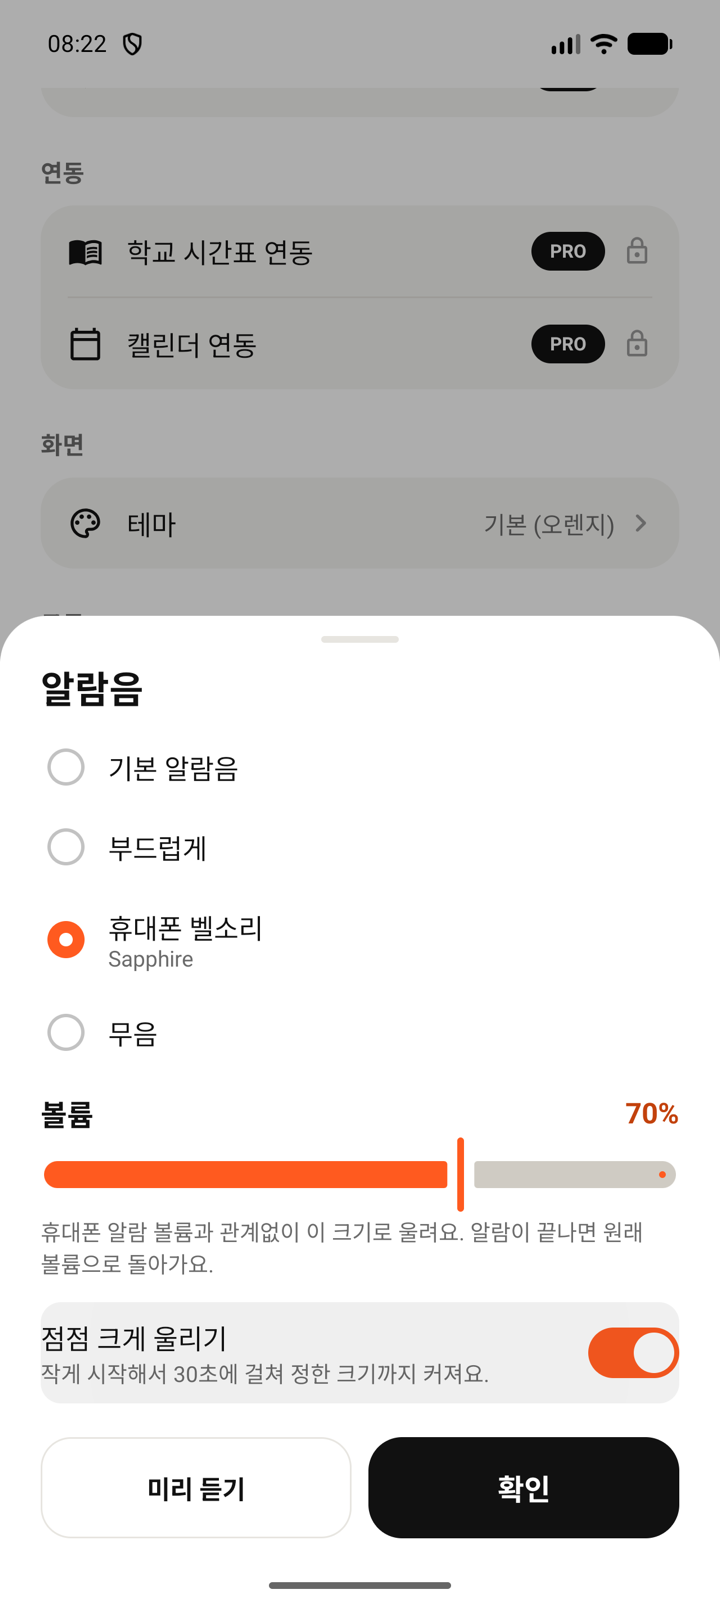
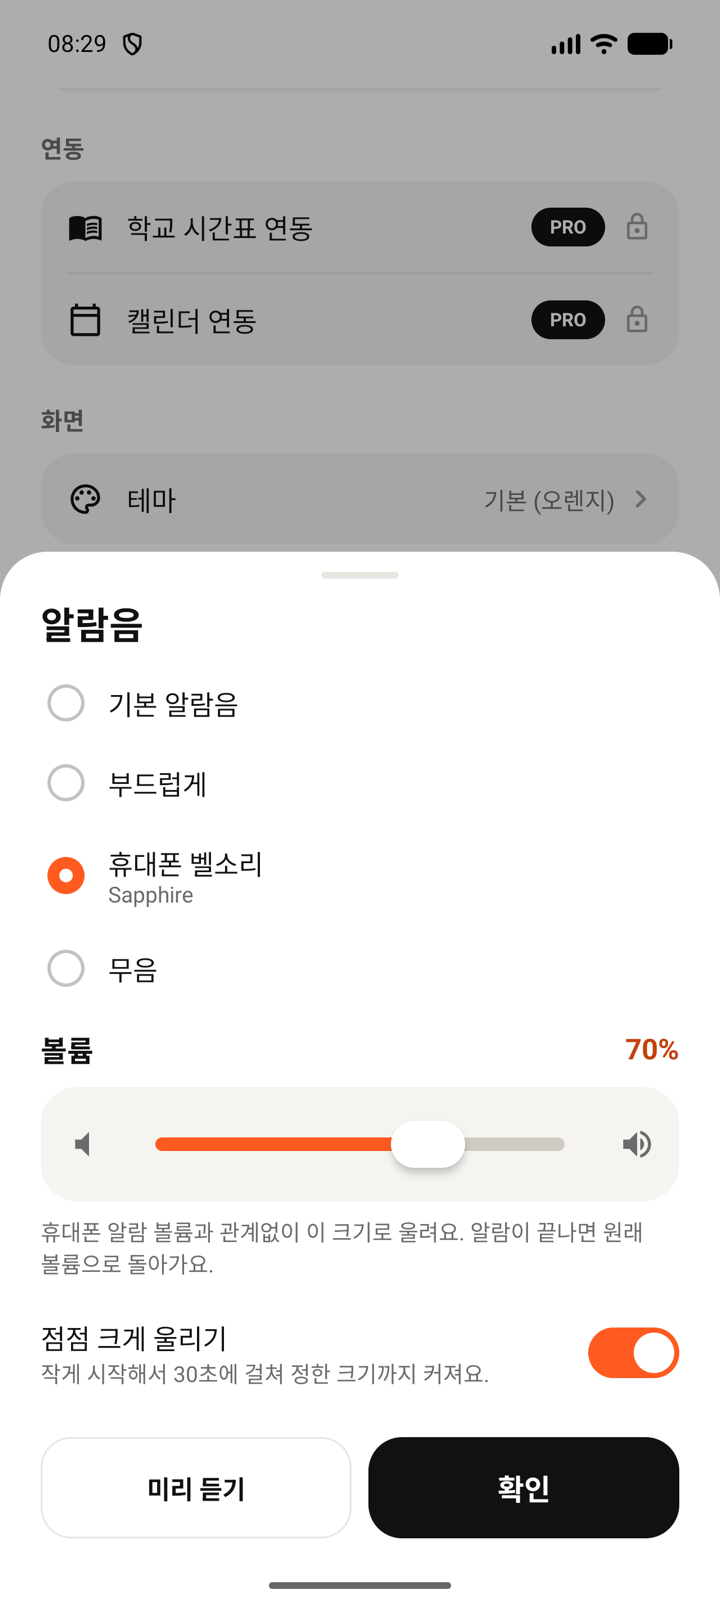
알람 볼륨을 아이폰식 막대로 바꾸고 테마 강조색 적용, README 에 테마별 화면 추가
- VolumeSlider: 둥근 카드 안에 작은/큰 스피커 아이콘, 얇은 막대, 흰 알약 손잡이
- 채워진 막대 색은 테마 강조색(기본 오렌지, 새벽 남색, 나이트 연두)
- README: 테마별 홈·알람음 화면 표

diff --git a/app/src/main/java/com/example/routealarm/core/designsystem/component/VolumeSlider.kt b/app/src/main/java/com/example/routealarm/core/designsystem/component/VolumeSlider.kt
@@ -1,0 +1,89 @@
+package com.example.routealarm.core.designsystem.component
+
+import androidx.compose.foundation.Canvas
+import androidx.compose.foundation.background
+import androidx.compose.foundation.layout.Box
+import androidx.compose.foundation.layout.Row
+import androidx.compose.foundation.layout.fillMaxWidth
+import androidx.compose.foundation.layout.height
+import androidx.compose.foundation.layout.padding
+import androidx.compose.foundation.layout.size
+import androidx.compose.foundation.shape.CircleShape
+import androidx.compose.material.icons.Icons
+import androidx.compose.material.icons.automirrored.filled.VolumeMute
+import androidx.compose.material.icons.automirrored.filled.VolumeUp
+import androidx.compose.material3.ExperimentalMaterial3Api
+import androidx.compose.material3.Icon
+import androidx.compose.material3.Slider
+import androidx.compose.runtime.Composable
+import androidx.compose.ui.Alignment
+import androidx.compose.ui.Modifier
+import androidx.compose.ui.draw.alpha
+import androidx.compose.ui.draw.clip
+import androidx.compose.ui.draw.shadow
+import androidx.compose.ui.geometry.CornerRadius
+import androidx.compose.ui.geometry.Offset
+import androidx.compose.ui.geometry.Size
+import androidx.compose.ui.graphics.Color
+import androidx.compose.ui.unit.dp
+import com.example.routealarm.core.designsystem.theme.Radius
+import com.example.routealarm.core.designsystem.theme.RouteAlarmTheme
+
+/**
+ * 아이폰 설정의 소리 크기 막대처럼 생긴 볼륨 슬라이더.
+ * 둥근 카드 안에 작은/큰 스피커 아이콘, 얇은 막대, 흰 알약 손잡이를 둔다.
+ * 채워진 막대는 테마 강조색을 따라가서 테마를 바꾸면 색도 바뀐다.
+ */
+@OptIn(ExperimentalMaterial3Api::class)
+@Composable
+fun VolumeSlider(
+    value: Int,
+    range: IntRange,
+    onChange: (Int) -> Unit,
+    modifier: Modifier = Modifier,
+    step: Int = 5,
+    enabled: Boolean = true,
+    onChangeFinished: () -> Unit = {},
+) {
+    val colors = RouteAlarmTheme.colors
+    val active = colors.accent
+    val inactive = colors.dotted
+    Row(
+        modifier
+            .fillMaxWidth()
+            .clip(Radius.card)
+            .background(colors.surface)
+            .padding(horizontal = 14.dp)
+            .alpha(if (enabled) 1f else 0.4f),
+        verticalAlignment = Alignment.CenterVertically,
+    ) {
+        Icon(Icons.AutoMirrored.Filled.VolumeMute, contentDescription = null, tint = colors.textSecondary, modifier = Modifier.size(22.dp))
+        Slider(
+            value = value.toFloat(),
+            onValueChange = { onChange(((it / step).toInt() * step).coerceIn(range.first, range.last)) },
+            onValueChangeFinished = onChangeFinished,
+            valueRange = range.first.toFloat()..range.last.toFloat(),
+            enabled = enabled,
+            thumb = {
+                Box(
+                    Modifier
+                        .size(width = 44.dp, height = 28.dp)
+                        .shadow(3.dp, CircleShape)
+                        .background(Color.White, CircleShape),
+                )
+            },
+            track = { state ->
+                val fraction = ((state.value - state.valueRange.start) / (state.valueRange.endInclusive - state.valueRange.start)).coerceIn(0f, 1f)
+                Canvas(Modifier.fillMaxWidth().height(TRACK_HEIGHT)) {
+                    val radius = CornerRadius(size.height / 2, size.height / 2)
+                    drawRoundRect(inactive, size = size, cornerRadius = radius)
+                    drawRoundRect(active, topLeft = Offset.Zero, size = Size(size.width * fraction, size.height), cornerRadius = radius)
+                }
+            },
+            modifier = Modifier.weight(1f).padding(horizontal = 10.dp, vertical = 10.dp),
+        )
+        Icon(Icons.AutoMirrored.Filled.VolumeUp, contentDescription = null, tint = colors.textSecondary, modifier = Modifier.size(22.dp))
+    }
+}
+
+private val TRACK_HEIGHT = 8.dp

diff --git a/app/src/main/java/com/example/routealarm/presentation/settings/AlarmSoundSheet.kt b/app/src/main/java/com/example/routealarm/presentation/settings/AlarmSoundSheet.kt
@@ -18,8 +18,6 @@ import androidx.compose.foundation.layout.width
 import androidx.compose.foundation.selection.selectable
 import androidx.compose.foundation.selection.selectableGroup
 import androidx.compose.material3.MaterialTheme
-import androidx.compose.material3.Slider
-import androidx.compose.material3.SliderDefaults
 import androidx.compose.material3.Text
 import androidx.compose.runtime.Composable
 import androidx.compose.runtime.DisposableEffect
@@ -32,7 +30,6 @@ import androidx.compose.runtime.setValue
 import androidx.compose.ui.Alignment
 import androidx.compose.ui.Modifier
 import androidx.compose.ui.draw.clip
-import androidx.compose.ui.graphics.Color
 import androidx.compose.ui.platform.LocalContext
 import androidx.compose.ui.platform.testTag
 import androidx.compose.ui.res.stringResource
@@ -49,6 +46,7 @@ import com.example.routealarm.core.designsystem.component.Paragraph
 import com.example.routealarm.core.designsystem.component.PrimaryButton
 import com.example.routealarm.core.designsystem.component.RadioDot
 import com.example.routealarm.core.designsystem.component.SecondaryButton
+import com.example.routealarm.core.designsystem.component.VolumeSlider
 import com.example.routealarm.core.designsystem.theme.Radius
 import com.example.routealarm.core.designsystem.theme.RouteAlarmTheme
 import com.example.routealarm.core.designsystem.theme.Spacing
@@ -121,25 +119,20 @@ internal fun AlarmSoundSheet(
                 Text(stringResource(R.string.settings_volume), style = MaterialTheme.typography.titleMedium, color = colors.textPrimary, modifier = Modifier.weight(1f))
                 Text(stringResource(R.string.settings_volume_format, volume), style = MaterialTheme.typography.titleMedium, color = colors.accentText)
             }
-            Slider(
-                value = volume.toFloat(),
-                onValueChange = {
-                    volume = ((it / VOLUME_STEP).toInt() * VOLUME_STEP).coerceIn(UserPreferences.ALARM_VOLUME_RANGE)
-                    previewPlayer.updateVolume(volume)
+            Spacer(Modifier.height(10.dp))
+            VolumeSlider(
+                value = volume,
+                range = UserPreferences.ALARM_VOLUME_RANGE,
+                onChange = {
+                    volume = it
+                    previewPlayer.updateVolume(it)
                 },
-                onValueChangeFinished = { onVolume(volume) },
-                valueRange = UserPreferences.ALARM_VOLUME_RANGE.first.toFloat()..UserPreferences.ALARM_VOLUME_RANGE.last.toFloat(),
-                steps = (UserPreferences.ALARM_VOLUME_RANGE.last - UserPreferences.ALARM_VOLUME_RANGE.first) / VOLUME_STEP - 1,
+                onChangeFinished = { onVolume(volume) },
+                step = VOLUME_STEP,
                 enabled = !silent,
-                colors = SliderDefaults.colors(
-                    thumbColor = colors.accent,
-                    activeTrackColor = colors.accent,
-                    inactiveTrackColor = colors.dotted,
-                    activeTickColor = Color.Transparent,
-                    inactiveTickColor = Color.Transparent,
-                ),
                 modifier = Modifier.testTag("alarm_volume_slider"),
             )
+            Spacer(Modifier.height(8.dp))
             Paragraph(stringResource(R.string.settings_volume_body), style = MaterialTheme.typography.bodySmall)
 
             Spacer(Modifier.height(14.dp))

diff --git a/README.md b/README.md
@@ -59,7 +59,7 @@ Kotlin · Jetpack Compose · Clean Architecture(MVVM) · Hilt · Room · DataSto
 | 교통 상황 재확인 | PRO: 기상 24h / 3h / 1h / 20분 전에 WorkManager 로 재확인. 무료: 기상 30분 전 1회 |
 | 안전한 자동 조정 | 5분 미만 변화는 무시, 30분 초과 변화는 사용자 확인. PRO 는 자동 조정, 무료 플랜과 자동 조정 OFF 는 변경 추천만 |
 | 기상 알람 + 출발 알림 | 기상 알람(전체 화면, 알람음, 진동, 5·10분 스누즈)과 "10분 뒤 출발" / "지금 출발" 알림 분리 |
-| 알람음·볼륨 | 기본 알람음·부드럽게·휴대폰 벨소리 직접 고르기·무음, 볼륨 10~100%(휴대폰 알람 볼륨과 관계없이 이 크기로 울리고 끝나면 원래 볼륨으로 복원), 30초에 걸쳐 점점 크게 울리기, 미리 듣기 |
+| 알람음·볼륨 | 기본 알람음·부드럽게·휴대폰 벨소리 직접 고르기·무음, 아이폰 설정 같은 볼륨 막대 10~100%(테마 강조색, 휴대폰 알람 볼륨과 관계없이 이 크기로 울리고 끝나면 원래 볼륨으로 복원), 30초에 걸쳐 점점 크게 울리기, 미리 듣기 |
 | Offline First | 네트워크 실패 시 Room 캐시 → 마지막 계산값으로 알람 유지, 화면에 안내 띠 표시 |
 | 일정 만들기 5단계 | 출발지 → 도착지 → 도착 시각·반복 → 준비 시간 → 여유 시간, 저장 전에 계산 미리보기 |
 | 아이폰식 휠 입력 | 도착 시각(오전/오후 · 시 · 분)과 준비 시간(시간 · 분)을 휠을 돌려 고른다. 시 휠이 11과 12 사이를 지나면 오전/오후가 따라 바뀐다 |
@@ -137,9 +137,6 @@ Kotlin · Jetpack Compose · Clean Architecture(MVVM) · Hilt · Room · DataSto
     <td align="center" valign="top"><img src="docs/screenshots/settings.png" width="200" alt="설정 (연동 메뉴)"><br><sub>설정 (연동 메뉴)</sub></td>
     <td align="center" valign="top"><img src="docs/screenshots/theme.png" width="200" alt="테마 선택"><br><sub>테마 선택</sub></td>
   </tr>
-  <tr>
-    <td align="center" valign="top"><img src="docs/screenshots/alarm-sound.png" width="200" alt="알람음·볼륨·점점 크게"><br><sub>알람음·볼륨·점점 크게</sub></td>
-  </tr>
 </table>
 
 ### 학교 시간표 · 캘린더 연동 (PRO)
@@ -170,6 +167,28 @@ Kotlin · Jetpack Compose · Clean Architecture(MVVM) · Hilt · Room · DataSto
     <td align="center" valign="top"><img src="docs/screenshots/auto-adjust.png" width="200" alt="교통 지연 → 자동 조정 (PRO)"><br><sub>교통 지연 → 자동 조정 (PRO)</sub></td>
     <td align="center" valign="top"><img src="docs/screenshots/suggestion.png" width="200" alt="교통 지연 → 변경 추천 (무료)"><br><sub>교통 지연 → 변경 추천 (무료)</sub></td>
     <td align="center" valign="top"><img src="docs/screenshots/offline.png" width="200" alt="네트워크 실패 → 마지막 계산 기준"><br><sub>네트워크 실패 → 마지막 계산 기준</sub></td>
+  </tr>
+</table>
+
+### 테마별 화면
+
+설정 > 테마에서 기본(오렌지)·새벽·나이트를 고를 수 있다. 강조색이 테마를 따라 바뀌어, 알람음 볼륨 막대도 오렌지 · 남색 · 연두색으로 칠해진다. 지하철 노선색은 테마와 관계없이 공식 색으로 고정된다.
+
+<table>
+  <tr>
+    <th align="center">기본 (오렌지)</th>
+    <th align="center">새벽</th>
+    <th align="center">나이트</th>
+  </tr>
+  <tr>
+    <td align="center" valign="top"><img src="docs/screenshots/theme-default-home.png" width="200" alt="기본 (오렌지) — 홈"><br><sub>기본 (오렌지) — 홈</sub></td>
+    <td align="center" valign="top"><img src="docs/screenshots/theme-dawn-home.png" width="200" alt="새벽 — 홈"><br><sub>새벽 — 홈</sub></td>
+    <td align="center" valign="top"><img src="docs/screenshots/theme-night-home.png" width="200" alt="나이트 — 홈"><br><sub>나이트 — 홈</sub></td>
+  </tr>
+  <tr>
+    <td align="center" valign="top"><img src="docs/screenshots/alarm-sound.png" width="200" alt="기본 (오렌지) — 알람음·볼륨"><br><sub>기본 (오렌지) — 알람음·볼륨</sub></td>
+    <td align="center" valign="top"><img src="docs/screenshots/theme-dawn-sound.png" width="200" alt="새벽 — 알람음·볼륨"><br><sub>새벽 — 알람음·볼륨</sub></td>
+    <td align="center" valign="top"><img src="docs/screenshots/theme-night-sound.png" width="200" alt="나이트 — 알람음·볼륨"><br><sub>나이트 — 알람음·볼륨</sub></td>
   </tr>
 </table>
 
